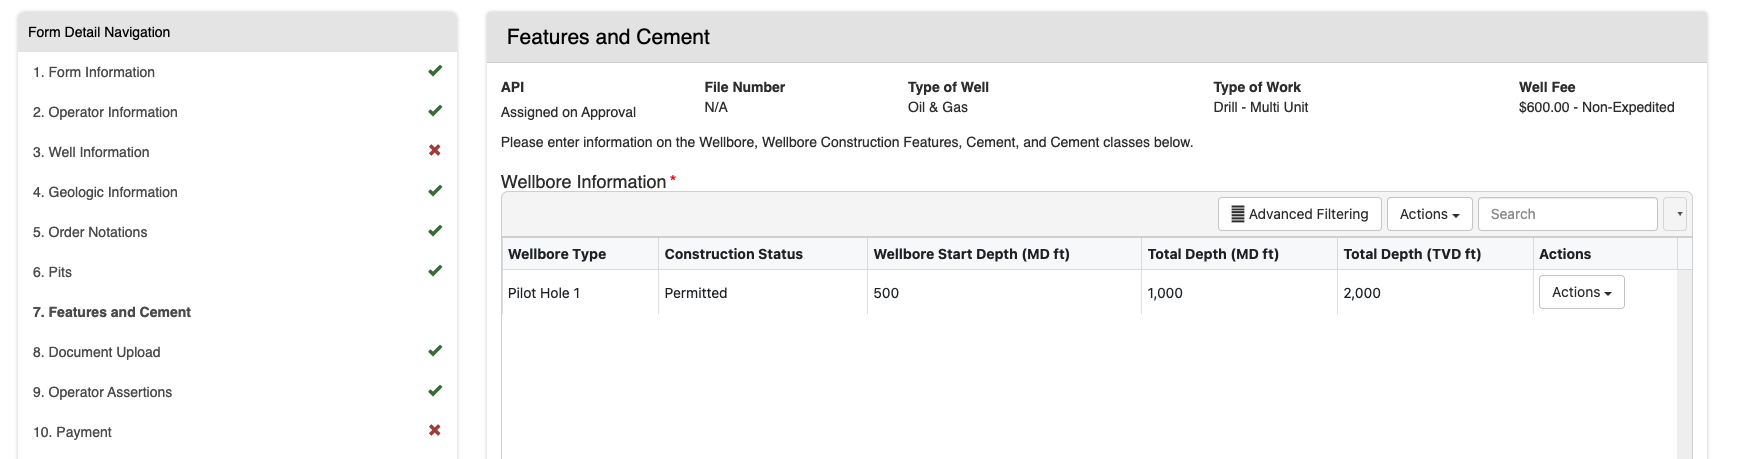
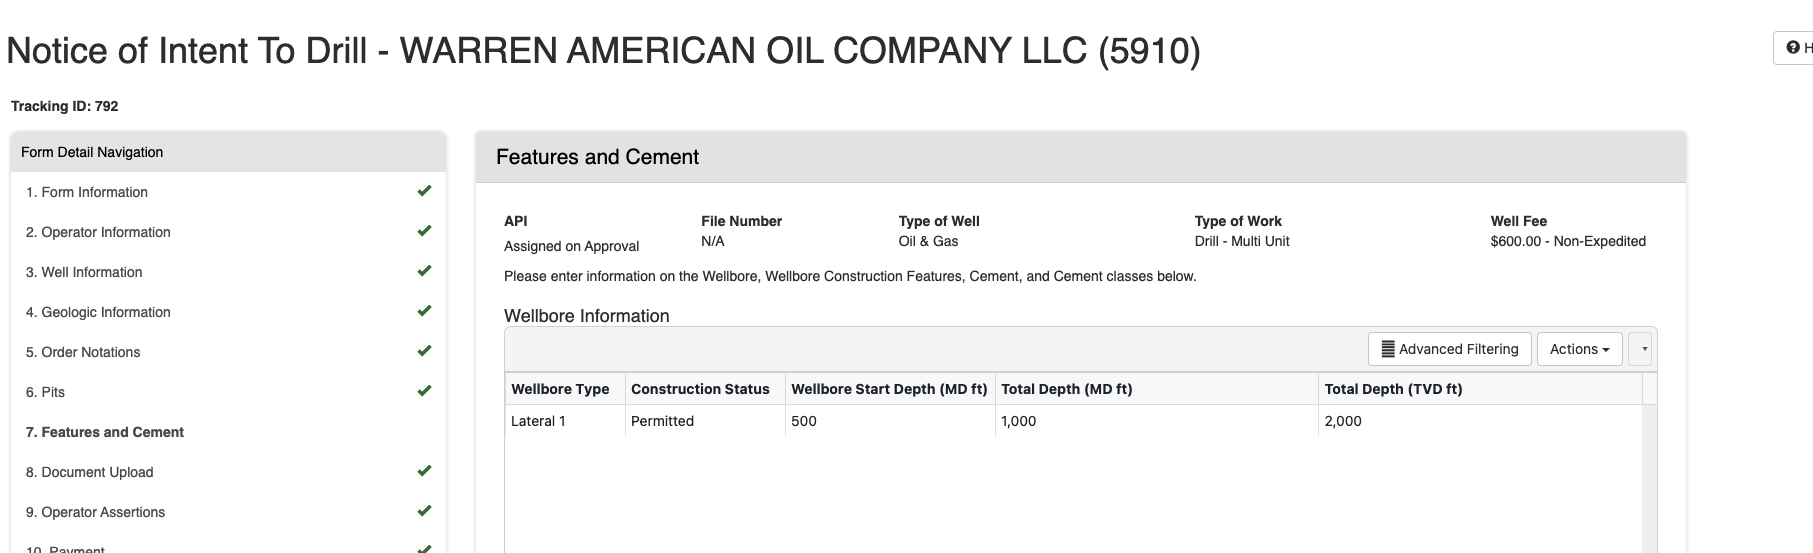
fix: UAT is all set to go

diff --git a/ITD-Payment-Tester.js b/ITD-Payment-Tester.js
@@ -317,7 +317,7 @@ function askQuestion(query) {
     await page1.locator('#WellboreInformationToolbar').getByRole('button', { name: 'Actions' }).click();
     await page1.getByRole('link', { name: 'Add Wellbore' }).click();
     await page1.getByRole('combobox', { name: 'Wellbore Type*' }).locator('span').first().click();
-    await page1.getByRole('option', { name: 'Pilot Hole' }).click();
+    await page1.getByRole('option', { name: 'Lateral' }).click();
     await page1.getByRole('combobox', { name: 'Wellbore Construction Status*' }).locator('span').first().click();
     await page1.getByRole('option', { name: 'Permitted' }).click();
     await page1.locator('#wellbore-information-section div').filter({ hasText: 'Wellbore Code (API 11 and 12)' }).nth(3).click();
